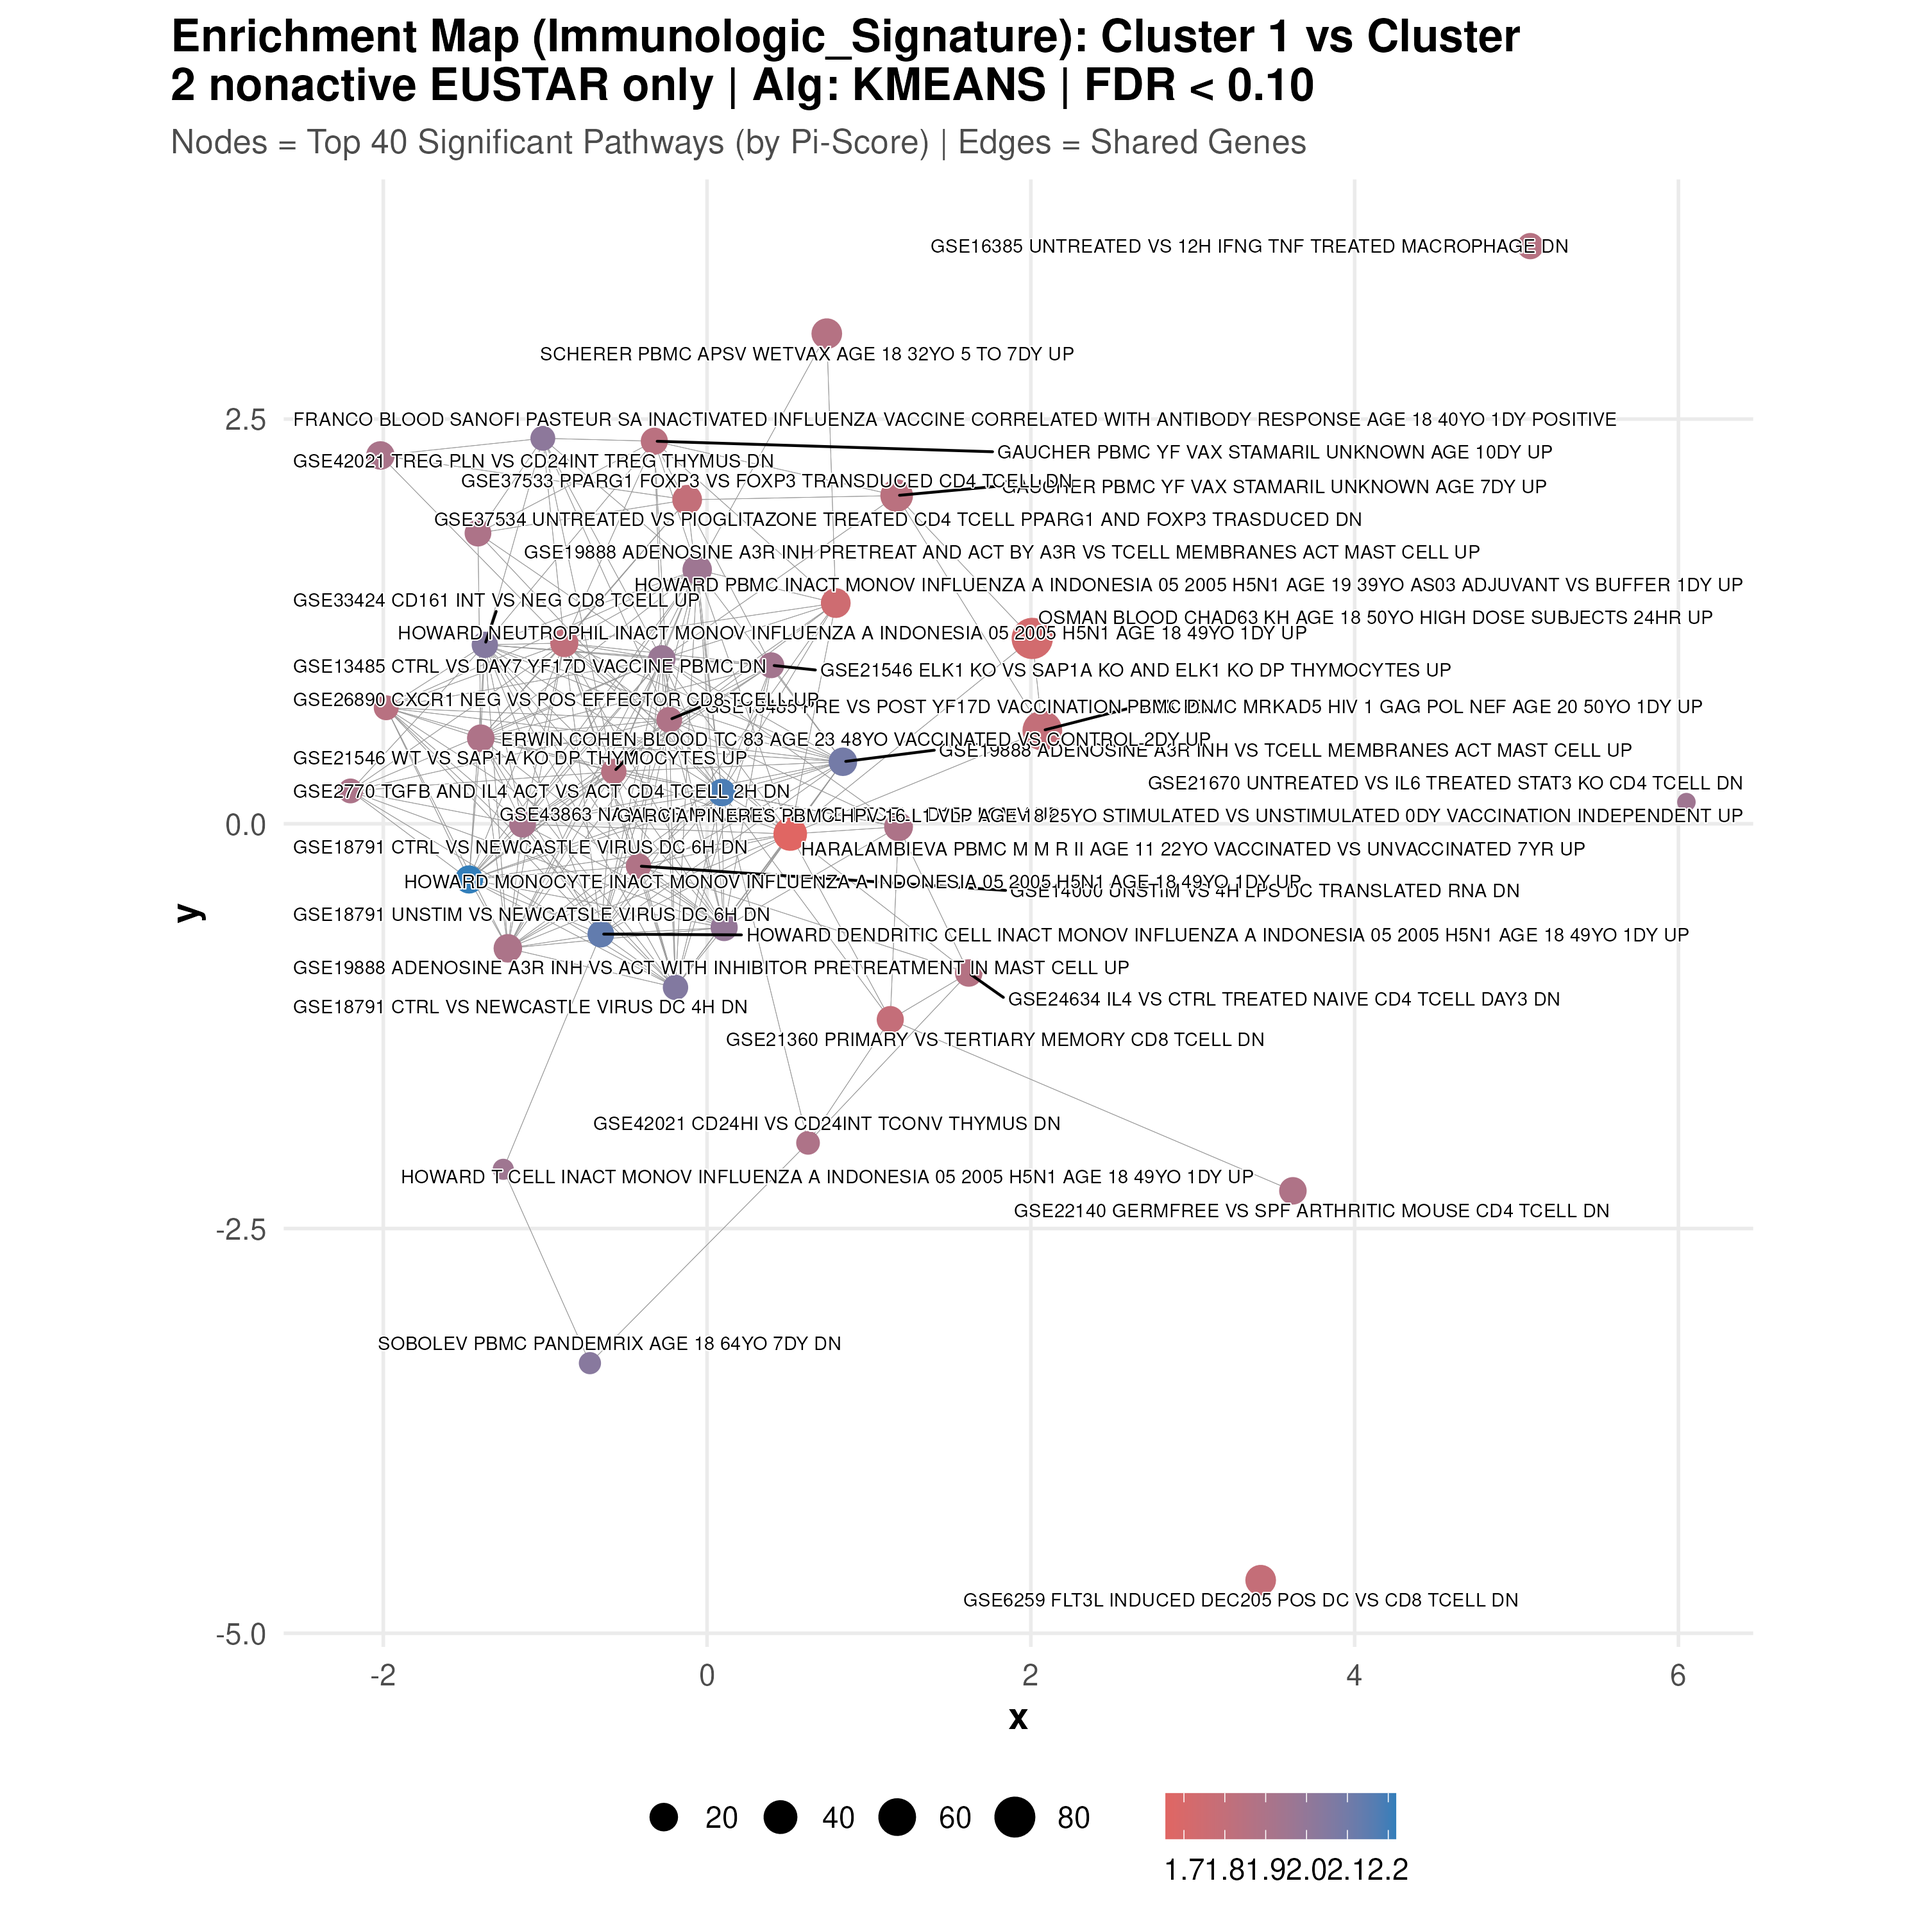
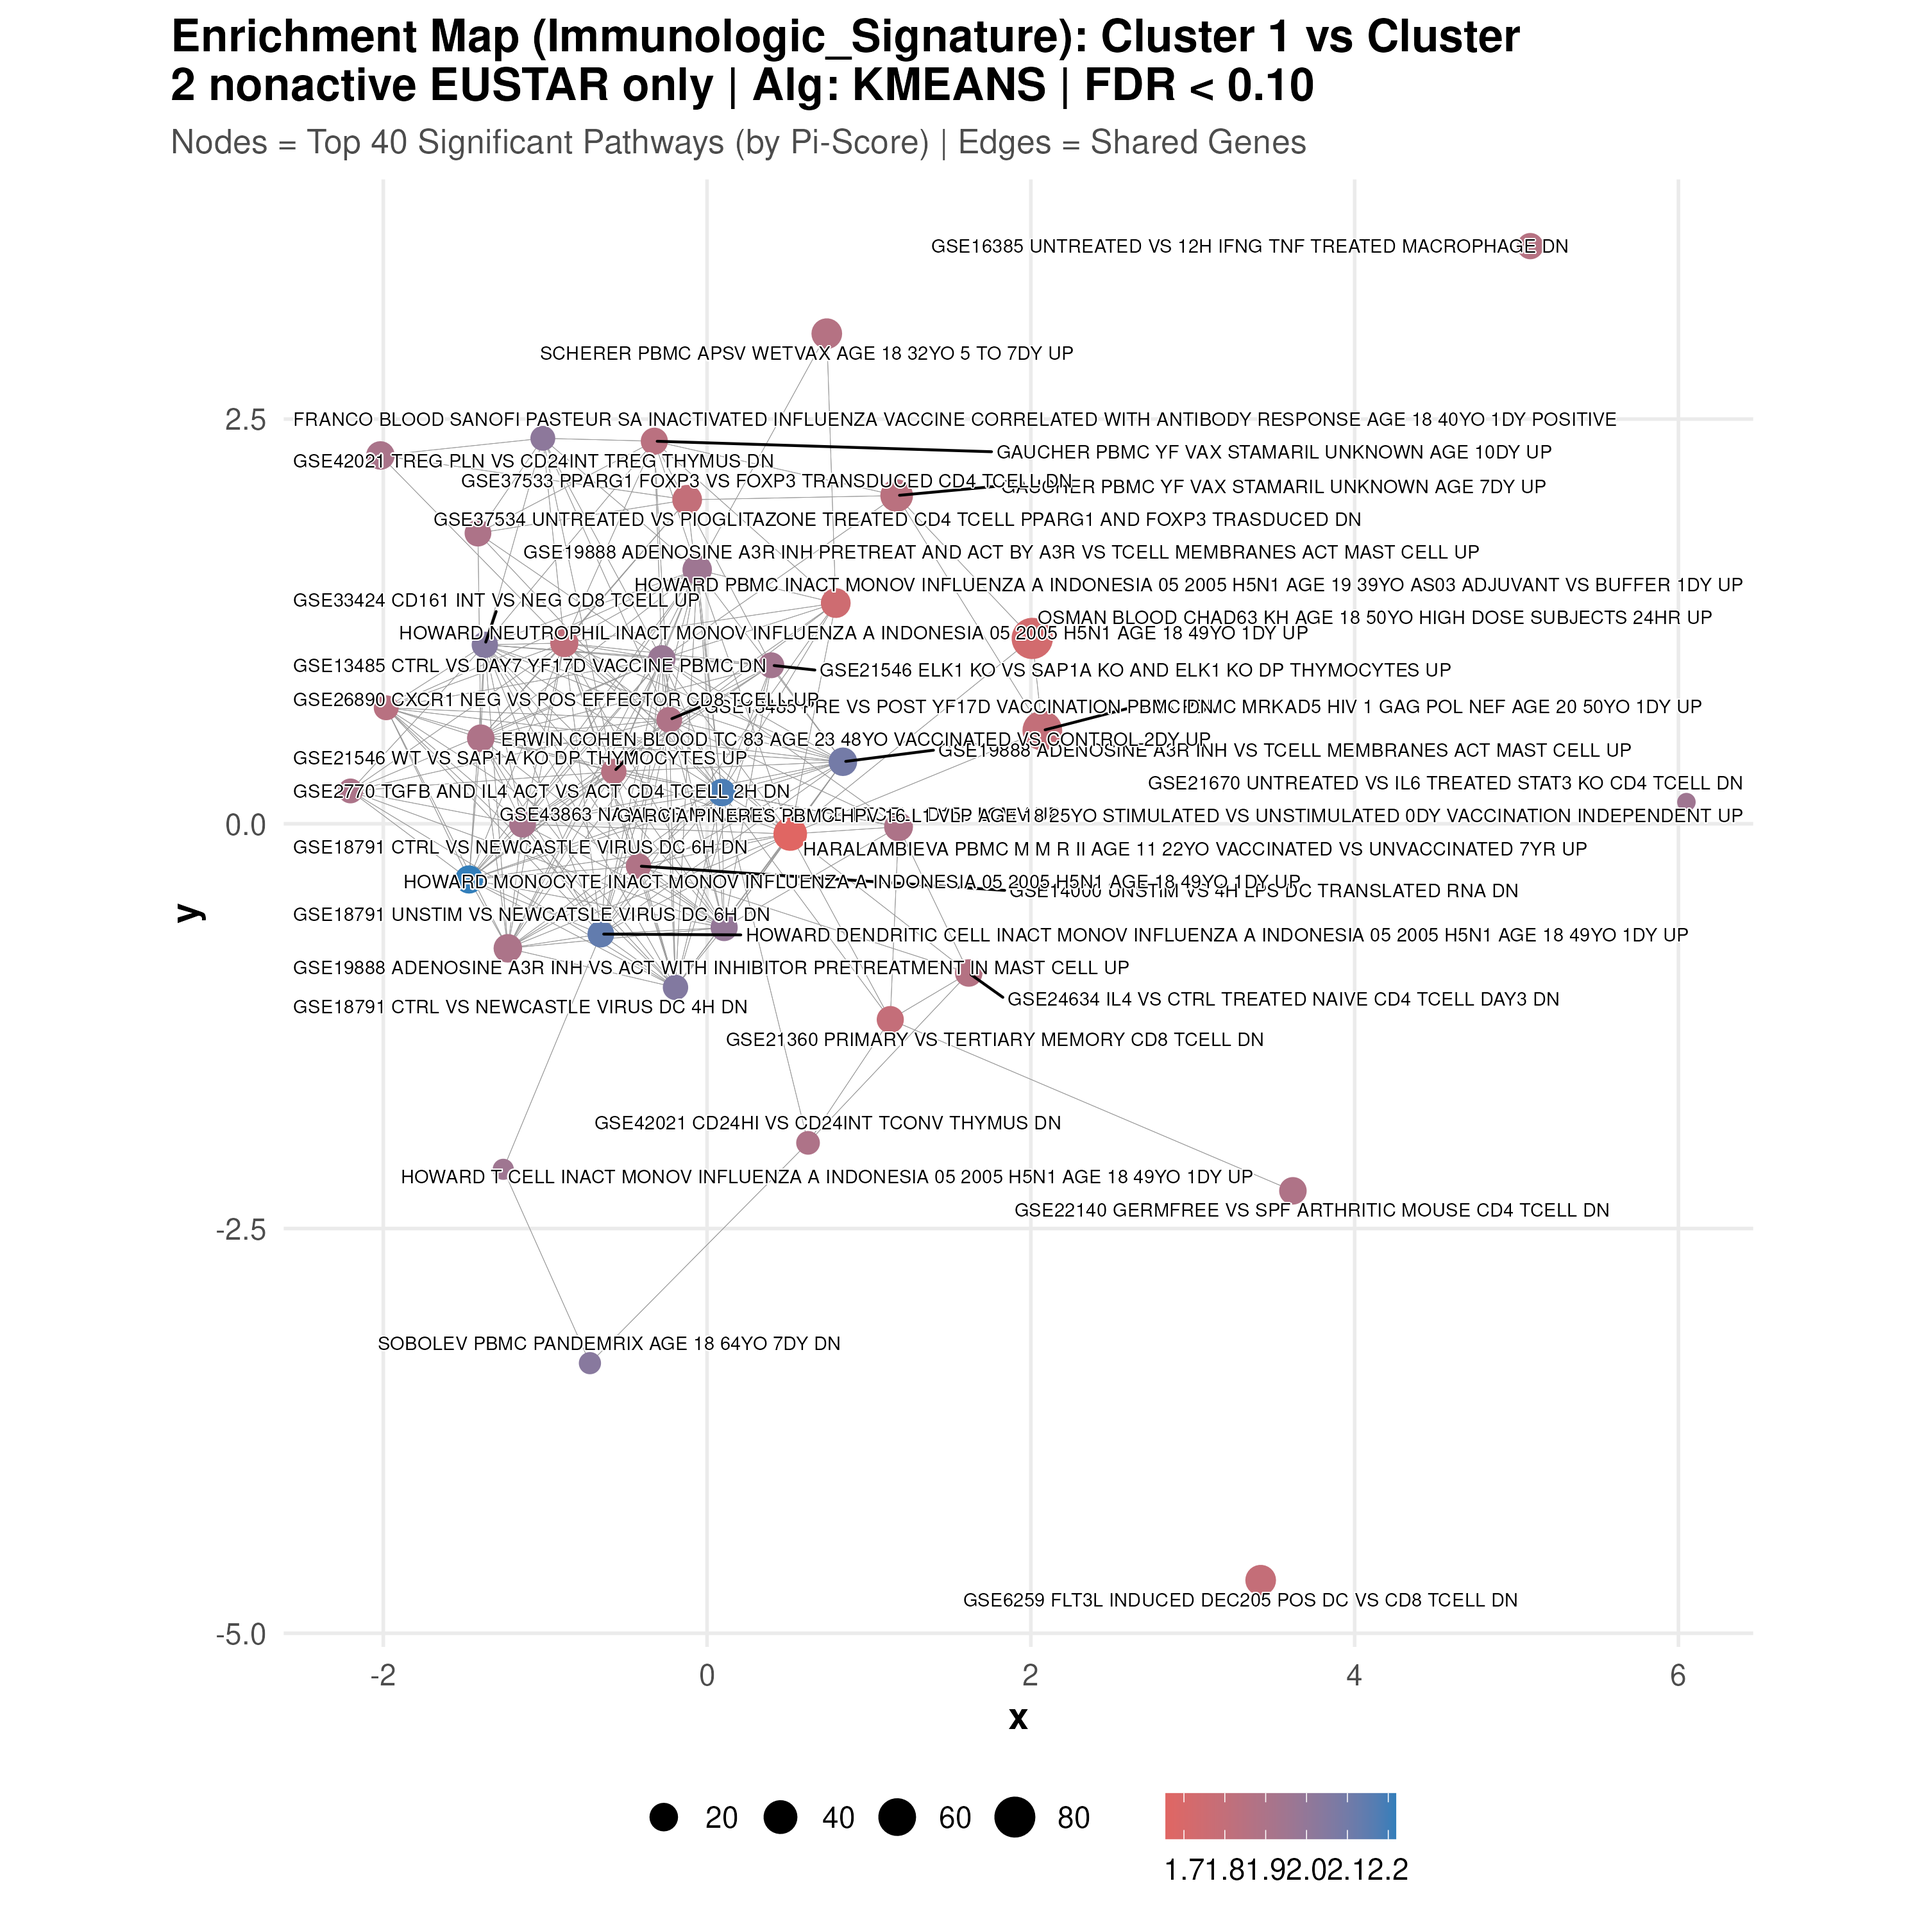
wflow_publish(all = TRUE)

diff --git a/docs/03c_proteomics_clustering.html b/docs/03c_proteomics_clustering.html
@@ -491,7 +491,7 @@ class="email">alexander.gysin@usz.ch</a>)</h4>
 <p>
 <button type="button" class="btn btn-default btn-workflowr btn-workflowr-report" data-toggle="collapse" data-target="#workflowr-report">
 <span class="glyphicon glyphicon-list" aria-hidden="true"></span>
-workflowr <span class="glyphicon glyphicon-ok text-success"
+workflowr <span class="glyphicon glyphicon-exclamation-sign text-danger"
 aria-hidden="true"></span>
 </button>
 </p>
@@ -502,8 +502,8 @@ aria-hidden="true"></span>
 </li>
 <li>
 <a data-toggle="tab" href="#checks"> Checks <span
-class="glyphicon glyphicon-ok text-success" aria-hidden="true"></span>
-</a>
+class="glyphicon glyphicon-exclamation-sign text-danger"
+aria-hidden="true"></span> </a>
 </li>
 <li>
 <a data-toggle="tab" href="#versions">Past versions</a>
@@ -516,9 +516,9 @@ class="glyphicon glyphicon-ok text-success" aria-hidden="true"></span>
 </p>
 <p>
 <strong>Checks:</strong> <span
-class="glyphicon glyphicon-ok text-success" aria-hidden="true"></span> 7
+class="glyphicon glyphicon-ok text-success" aria-hidden="true"></span> 6
 <span class="glyphicon glyphicon-exclamation-sign text-danger"
-aria-hidden="true"></span> 0
+aria-hidden="true"></span> 1
 </p>
 <p>
 <strong>Knit directory:</strong> <code>SSc-USZ/</code> <span
@@ -541,18 +541,21 @@ versions</em> tab lists the development history.
 <div class="panel panel-default">
 <div class="panel-heading">
 <p class="panel-title">
-<a data-toggle="collapse" data-parent="#workflowr-checks" href="#strongRMarkdownfilestronguptodate">
-<span class="glyphicon glyphicon-ok text-success"
-aria-hidden="true"></span> <strong>R Markdown file:</strong> up-to-date
-</a>
+<a data-toggle="collapse" data-parent="#workflowr-checks" href="#strongRMarkdownfilestronguncommittedchanges">
+<span class="glyphicon glyphicon-exclamation-sign text-danger"
+aria-hidden="true"></span> <strong>R Markdown file:</strong> uncommitted
+changes </a>
 </p>
 </div>
-<div id="strongRMarkdownfilestronguptodate"
+<div id="strongRMarkdownfilestronguncommittedchanges"
 class="panel-collapse collapse">
 <div class="panel-body">
-<p>Great! Since the R Markdown file has been committed to the Git
-repository, you know the exact version of the code that produced these
-results.</p>
+<p>The R Markdown file has unstaged changes. To know which version of
+the R Markdown file created these results, you’ll want to first commit
+it to the Git repo. If you’re still working on the analysis, you can
+ignore this warning. When you’re finished, you can run
+<code>wflow_publish</code> to commit the R Markdown file and build the
+HTML.</p>
 </div>
 </div>
 </div>
@@ -643,15 +646,15 @@ project makes it easier to run your code on other machines.</p>
 <div class="panel panel-default">
 <div class="panel-heading">
 <p class="panel-title">
-<a data-toggle="collapse" data-parent="#workflowr-checks" href="#strongRepositoryversionstrongahrefhttpsgithubcomalexandergysinSScUSZtreef90c9a3b7b7e0915e040d3c83ce56cfd908a1290targetblankf90c9a3a">
+<a data-toggle="collapse" data-parent="#workflowr-checks" href="#strongRepositoryversionstrongahrefhttpsgithubcomalexandergysinSScUSZtreec622179c53be7051996b92ad8434d7e43c23da96targetblankc622179a">
 <span class="glyphicon glyphicon-ok text-success"
 aria-hidden="true"></span> <strong>Repository version:</strong>
-<a href="https://github.com/alexander-gysin/SSc-USZ/tree/f90c9a3b7b7e0915e040d3c83ce56cfd908a1290" target="_blank">f90c9a3</a>
+<a href="https://github.com/alexander-gysin/SSc-USZ/tree/c622179c53be7051996b92ad8434d7e43c23da96" target="_blank">c622179</a>
 </a>
 </p>
 </div>
 <div
[2 lines of base64/hex data omitted]
 class="panel-collapse collapse">
 <div class="panel-body">
 <p>
@@ -661,7 +664,7 @@ reproducibility.
 </p>
 <p>
 The results in this page were generated with repository version
-<a href="https://github.com/alexander-gysin/SSc-USZ/tree/f90c9a3b7b7e0915e040d3c83ce56cfd908a1290" target="_blank">f90c9a3</a>.
+<a href="https://github.com/alexander-gysin/SSc-USZ/tree/c622179c53be7051996b92ad8434d7e43c23da96" target="_blank">c622179</a>.
 See the <em>Past versions</em> tab to see a history of the changes made
 to the R Markdown and HTML files.
 </p>
@@ -678,7 +681,6 @@ were generated:
 Ignored files:
     Ignored:    .Rhistory
     Ignored:    .Rproj.user/
-    Ignored:    analysis/figure/
     Ignored:    output/01a_data_import_and_qc/
     Ignored:    output/01a_data_import_and_qc_lod_filtered/
     Ignored:    output/01b_clinical_feature_engineering/
@@ -704,6 +706,8 @@ Ignored files:
     Ignored:    renv/staging/
 
 Unstaged changes:
+    Modified:   analysis/02a_cohort_characterization.Rmd
+    Modified:   analysis/03c_proteomics_clustering.Rmd
     Modified:   analysis/04b_lipidomics_differential.Rmd
 
 </code></pre>
@@ -750,6 +754,23 @@ Message
 </tr>
 </thead>
 <tbody>
+<tr>
+<td>
+html
+</td>
+<td>
+<a href="https://rawcdn.githack.com/alexander-gysin/SSc-USZ/46a4f07e50a95a5589fee1ff215897c63a9ef08c/docs/03c_proteomics_clustering.html" target="_blank">46a4f07</a>
+</td>
+<td>
+alexander-gysin
+</td>
+<td>
+2026-08-05
+</td>
+<td>
+Build site.
+</td>
+</tr>
 <tr>
 <td>
 Rmd
@@ -1827,6 +1848,7 @@ current_file &lt;- &quot;03c_proteomics_clustering&quot; # Change dataset
 output_dir_data &lt;- here::here(&quot;output&quot;, current_file)
 if (!dir.exists(output_dir_data)) dir.create(output_dir_data, recursive = TRUE)
 assets_dir &lt;- here::here(&quot;docs&quot;, &quot;assets&quot;, current_file)
+if (!dir.exists(assets_dir)) dir.create(assets_dir, recursive = TRUE)
 
 # Global DEA Path
 proteomics_dea_path &lt;- here::here(&quot;output&quot;, &quot;03b_proteomics_differential&quot;)
